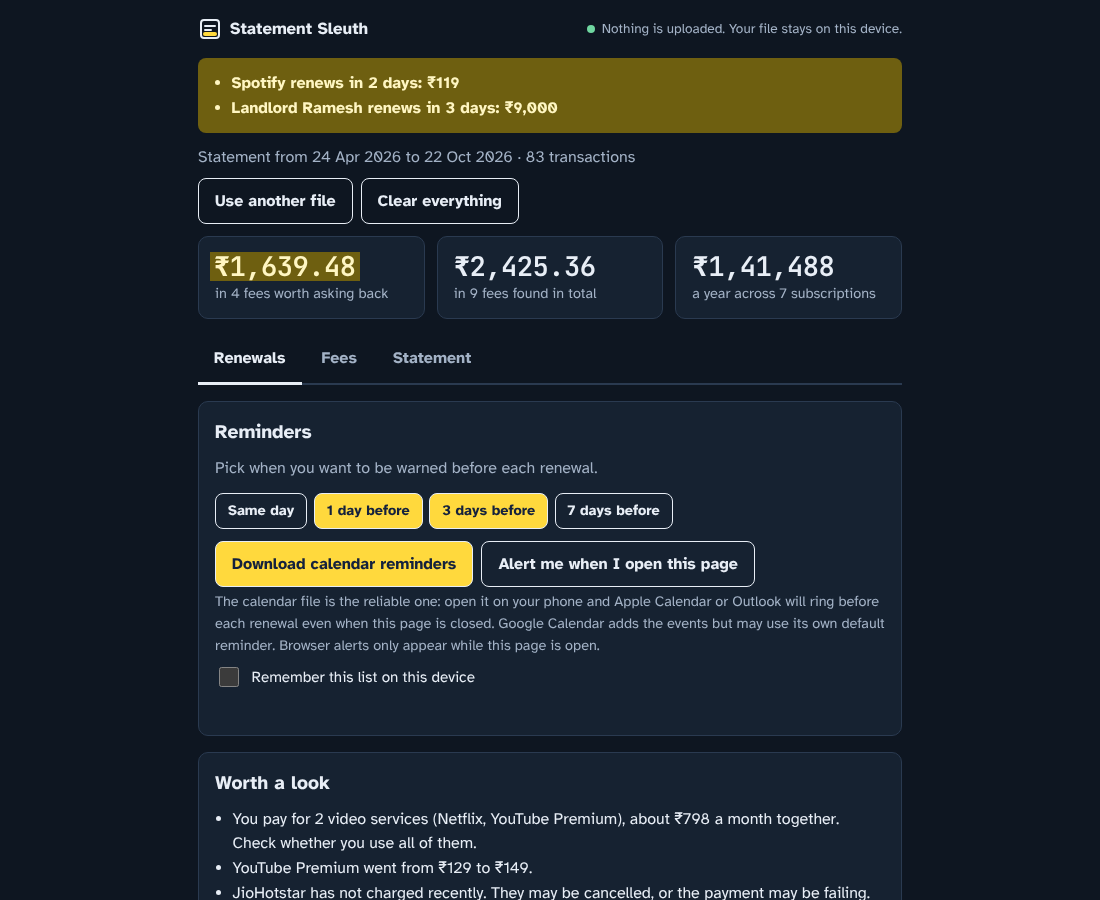
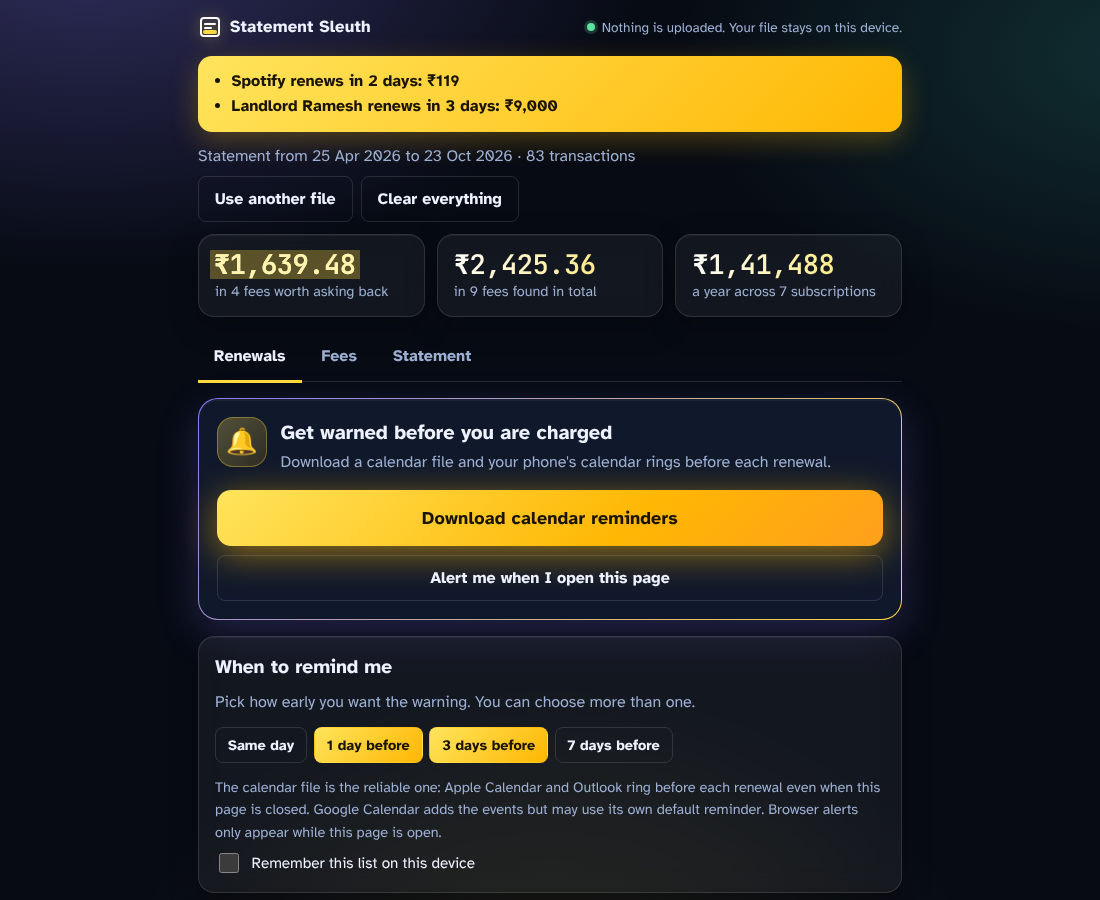
Dark glass theme, safe-area fix for the Android status bar, prominent reminders card, bottom tab bar on phones
Claude-Session: https://claude.ai/code/session_01QRs63Zm8gDiJNueHFq4BCV

Changed region(s): [[0.0, 0.0, 0.8345, 1.0], [0.6182, 0.28, 0.8036, 0.3733]]

diff --git a/web/style.css b/web/style.css
@@ -4,21 +4,19 @@
 @font-face{font-family:"JBMono";src:url(fonts/jetbrains-mono-latin-600-normal.woff2) format("woff2");font-weight:600;font-display:swap}
 
 :root{
-  --bg:#e8edf2; --paper:#fbfcfd; --ink:#14213d; --ink-2:#4a5870; --rule:#cfd8e2; --rule-2:#e3e9ef;
-  --hi:#ffe45c; --hi-line:#ffd93d; --hi-ink:#14213d;
-  --good:#17714a; --good-bg:#dff3e8; --warn:#9a3412; --warn-bg:#fde8d8; --info-bg:#e1ebf8;
-  --accent:#14213d; --accent-ink:#fff; --focus:#2563eb;
+  color-scheme:dark;
+  --bg:#070b14; --card:#10192b; --paper:rgba(255,255,255,.05); --ink:#eef2ff; --ink-2:#9db0d3; --rule:rgba(255,255,255,.12); --rule-2:rgba(255,255,255,.07);
+  --hi:rgba(255,217,61,.30); --hi-line:#ffd93d; --hi-ink:#fff3b0;
+  --good:#5ee0a0; --good-bg:rgba(94,224,160,.13); --warn:#ffb48a; --warn-bg:rgba(255,150,90,.13); --info-bg:rgba(139,123,255,.16);
+  --accent:#ffd93d; --accent-ink:#1a1405; --focus:#9dbcff; --violet:#8b7bff; --teal:#3ddbc0;
+  --inset-top:max(env(safe-area-inset-top,0px),var(--safe-area-inset-top,0px));
+  --inset-bottom:max(env(safe-area-inset-bottom,0px),var(--safe-area-inset-bottom,0px));
   --sans:"Atkinson",system-ui,-apple-system,"Segoe UI",Roboto,sans-serif; --mono:"JBMono",ui-monospace,Menlo,Consolas,monospace;
 }
-@media (prefers-color-scheme:dark){:root:not([data-theme="light"]){
-  --bg:#0e1621; --paper:#162231; --ink:#e8eef6; --ink-2:#a3b2c6; --rule:#2a3a50; --rule-2:#203045;
-  --hi:#6e5f10; --hi-line:#ffd93d; --hi-ink:#fff6c2;
-  --good:#6fd6a0; --good-bg:#16382a; --warn:#ffb98a; --warn-bg:#40240f; --info-bg:#1b2c45;
-  --accent:#ffd93d; --accent-ink:#14213d; --focus:#7fb0ff;
-}}
 *{box-sizing:border-box}
 html{-webkit-text-size-adjust:100%}
-body{margin:0;background:var(--bg);color:var(--ink);font:400 1rem/1.55 var(--sans);padding-bottom:3rem}
+html{background:var(--bg)}
+body{margin:0;min-height:100vh;color:var(--ink);font:400 1rem/1.55 var(--sans);padding-bottom:calc(3rem + var(--inset-bottom));background:radial-gradient(900px 520px at 8% -6%,rgba(139,123,255,.30),transparent 62%),radial-gradient(800px 480px at 104% 6%,rgba(61,219,192,.17),transparent 58%),radial-gradient(700px 520px at 50% 112%,rgba(255,217,61,.10),transparent 62%),var(--bg);background-attachment:fixed}
 .skip{position:absolute;left:-999px}.skip:focus{left:1rem;top:1rem;background:var(--paper);padding:.5rem .75rem;z-index:9}
 :focus-visible{outline:3px solid var(--focus);outline-offset:2px;border-radius:4px}
 h1{font-size:clamp(1.75rem,6vw,2.5rem);line-height:1.12;margin:0 0 .75rem;letter-spacing:-.015em}
@@ -28,7 +26,8 @@ p{margin:0 0 .75rem}
 a{color:inherit}
 .muted{color:var(--ink-2)}
 .top,main,footer,.banner{max-width:46rem;margin-inline:auto;padding-inline:max(1rem,env(safe-area-inset-left))}
-.top{display:flex;flex-wrap:wrap;gap:.25rem 1rem;align-items:center;justify-content:space-between;padding-block:1rem .5rem}
+.top{display:flex;flex-wrap:wrap;gap:.25rem 1rem;align-items:center;justify-content:space-between;padding-block:calc(var(--inset-top) + .9rem) .5rem}
+html.native .top{padding-top:max(calc(var(--inset-top) + .9rem),2.75rem)}
 .brand{display:flex;align-items:center;gap:.5rem;font-weight:700;font-size:1.05rem}
 .mark{width:1.5rem;height:1.5rem}
 .privacy{font-size:.85rem;color:var(--ink-2);margin:0;display:flex;align-items:center;gap:.4rem}
@@ -66,7 +65,7 @@ button{font:inherit;cursor:pointer}
 .opts label{display:grid;gap:.25rem;font-size:.95rem}
 .opts .check{display:flex;gap:.6rem;align-items:flex-start}
 select,input[type=text],input[type=date],input[type=number],textarea{font:inherit;color:var(--ink);background:var(--paper);border:1.5px solid var(--rule);border-radius:8px;padding:.5rem .6rem;min-height:2.5rem;width:100%}
-input[type=checkbox]{width:1.25rem;height:1.25rem;margin-top:.15rem;accent-color:var(--ink)}
+input[type=checkbox]{width:1.25rem;height:1.25rem;margin-top:.15rem;accent-color:var(--accent)}
 
 /* banner */
 .banner{margin-top:.5rem;padding-block:.8rem;background:var(--hi);color:var(--hi-ink);border-radius:8px;font-weight:700;max-width:calc(46rem - 2rem)}
@@ -109,7 +108,7 @@ input[type=checkbox]{width:1.25rem;height:1.25rem;margin-top:.15rem;accent-color
 .table-wrap{overflow-x:auto;background:var(--paper);border:1px solid var(--rule);border-radius:10px}
 table{border-collapse:collapse;width:100%;font-size:.9rem;min-width:30rem}
 th,td{padding:.5rem .7rem;text-align:left;border-bottom:1px solid var(--rule-2);vertical-align:top}
-th{font-size:.8rem;color:var(--ink-2);font-weight:700;background:var(--paper);position:sticky;top:0}
+th{font-size:.8rem;color:var(--ink-2);font-weight:700;background:#0f1626;position:sticky;top:0}
 td.num{text-align:right;font-family:var(--mono);font-variant-numeric:tabular-nums;white-space:nowrap}
 td.date{font-family:var(--mono);white-space:nowrap}
 tr.is-fee td.d{background:linear-gradient(transparent 14%,var(--hi) 14%,var(--hi) 90%,transparent 90%) no-repeat;background-size:0 100%;color:var(--hi-ink)}
@@ -125,3 +124,75 @@ footer{padding-block:1.5rem;color:var(--ink-2);font-size:.85rem}
 .privacy-page{max-width:40rem;margin-inline:auto;padding:1.5rem max(1rem,env(safe-area-inset-left)) 3rem}
 .privacy-page h2{margin-top:1.5rem}
 .privacy-page li{margin-bottom:.4rem}
+
+
+/* ===== dark, glassy theme ===== */
+h1{background:linear-gradient(110deg,#ffffff 25%,#ffe45c 95%);-webkit-background-clip:text;background-clip:text;color:transparent}
+.brand{letter-spacing:.01em}
+.mark{color:#fff;filter:drop-shadow(0 0 8px rgba(255,217,61,.45))}
+.dot{box-shadow:0 0 0 3px rgba(94,224,160,.2)}
+.ledger-demo,.card,.fig,.panel-box,.table-wrap,.drop,.opts{background:var(--paper);border-color:var(--rule);-webkit-backdrop-filter:blur(14px);backdrop-filter:blur(14px);box-shadow:0 10px 30px rgba(0,0,0,.28),inset 0 1px 0 rgba(255,255,255,.06)}
+.card,.panel-box,.fig{border-radius:16px}
+.card.quiet{background:transparent;box-shadow:none}
+.drop{border:2px dashed rgba(157,176,211,.5);border-radius:16px}
+.drop:hover,.drop.over{border-color:var(--accent);background:var(--info-bg)}
+.btn,.small[aria-pressed="true"]{background:linear-gradient(135deg,#ffe45c,#ffb703);color:var(--accent-ink);border-color:transparent}
+.ghost{border-color:var(--rule);color:var(--ink)}
+.ghost:hover{background:var(--info-bg)}
+.small.alt{border-color:var(--rule);color:var(--ink)}
+.small.alt[aria-pressed="true"]{background:linear-gradient(135deg,#ffe45c,#ffb703);color:var(--accent-ink);border-color:transparent}
+.fig .n{background:linear-gradient(110deg,#fff,#ffe45c);-webkit-background-clip:text;background-clip:text;color:transparent}
+.fig .n mark{-webkit-text-fill-color:currentColor}
+.banner{background:linear-gradient(135deg,#ffe45c,#ffb703);color:#1a1405;border-radius:14px;box-shadow:0 8px 28px rgba(255,183,3,.28)}
+.due.soon{background:linear-gradient(135deg,#ffe45c,#ffb703);color:#1a1405;padding:.05em .45em;border-radius:6px}
+.tag{border-width:1px}
+.notice{border:1px solid var(--rule)}
+
+/* the reminders card: the one thing that should catch the eye */
+.remind-hero{display:grid;gap:.9rem;margin-bottom:1rem;padding:1.1rem;border-radius:20px;border:1.5px solid transparent;
+  background:linear-gradient(var(--card),var(--card)) padding-box,linear-gradient(135deg,var(--violet),var(--accent)) border-box;
+  box-shadow:0 14px 40px rgba(139,123,255,.22),0 2px 0 rgba(255,255,255,.04) inset}
+.remind-hero.on{background:linear-gradient(var(--card),var(--card)) padding-box,linear-gradient(135deg,var(--teal),var(--good)) border-box;box-shadow:0 14px 40px rgba(61,219,192,.18)}
+.rh-top{display:flex;gap:.9rem;align-items:flex-start}
+.rh-icon{flex:none;width:3.1rem;height:3.1rem;border-radius:16px;display:grid;place-items:center;font-size:1.6rem;background:linear-gradient(135deg,rgba(255,228,92,.28),rgba(255,183,3,.12));box-shadow:inset 0 0 0 1px rgba(255,217,61,.35)}
+.remind-hero.on .rh-icon{background:rgba(94,224,160,.16);box-shadow:inset 0 0 0 1px rgba(94,224,160,.4);color:var(--good);font-weight:700}
+.rh-body h2{margin:0 0 .15rem;font-size:1.25rem}
+.rh-body p{margin:0}
+.cta{display:flex;align-items:center;justify-content:center;width:100%;min-height:3.5rem;padding:.8rem 1.2rem;border:0;border-radius:14px;font:700 1.12rem var(--sans);letter-spacing:.01em;color:#1a1405;
+  background:linear-gradient(135deg,#ffe45c,#ffb703 62%,#ff9f1c);box-shadow:0 8px 28px rgba(255,183,3,.38),inset 0 1px 0 rgba(255,255,255,.55);cursor:pointer}
+.cta:active{transform:scale(.98)}
+.cta.calm{background:rgba(255,255,255,.07);color:var(--ink);box-shadow:inset 0 0 0 1px var(--rule)}
+.remind-hero .actions{display:grid;gap:.6rem;margin-top:0}
+.remind-hero .status{margin:0;min-height:0;color:var(--ink-2)}
+.remind-hero .status:empty{display:none}
+@media (prefers-reduced-motion:no-preference){
+  .remind-hero:not(.on) .cta{animation:glow 2.4s ease-in-out infinite}
+  @keyframes glow{0%,100%{box-shadow:0 8px 28px rgba(255,183,3,.32),0 0 0 0 rgba(255,217,61,.5)}50%{box-shadow:0 8px 36px rgba(255,183,3,.55),0 0 0 11px rgba(255,217,61,0)}}
+  .rh-icon{animation:ring 3.2s ease-in-out infinite;transform-origin:50% 12%}
+  .remind-hero.on .rh-icon{animation:none}
+  @keyframes ring{0%,86%,100%{transform:rotate(0)}89%{transform:rotate(14deg)}92%{transform:rotate(-12deg)}95%{transform:rotate(8deg)}98%{transform:rotate(-4deg)}}
+}
+
+/* tabs: a floating glass bar at the bottom on phones */
+.tabs{border-bottom:1px solid var(--rule)}
+.tabs button{color:var(--ink-2)}
+.tabs button[aria-selected="true"]{color:var(--ink);border-bottom-color:var(--accent)}
+@media (max-width:40rem){
+  body{padding-bottom:calc(6rem + var(--inset-bottom))}
+  .tabs{position:fixed;z-index:20;left:max(.75rem,env(safe-area-inset-left));right:max(.75rem,env(safe-area-inset-right));bottom:calc(var(--inset-bottom) + .6rem);margin:0;padding:.3rem;gap:.2rem;border:1px solid var(--rule);border-radius:999px;
+    background:rgba(16,25,43,.82);-webkit-backdrop-filter:blur(18px);backdrop-filter:blur(18px);box-shadow:0 12px 36px rgba(0,0,0,.5)}
+  .tabs button{flex:1;border:0;border-radius:999px;margin:0;padding:.55rem .4rem;text-align:center}
+  .tabs button[aria-selected="true"]{background:linear-gradient(135deg,#ffe45c,#ffb703);color:#1a1405}
+}
+
+/* phone layout tidy-up */
+.banner{width:calc(100% - 2rem)}
+@media (max-width:40rem){
+  .toolbar{padding-block:.5rem}
+  .toolbar p{font-size:.9rem;flex-basis:100%}
+  .toolbar .ghost{min-height:2.4rem;padding:.35rem .8rem;font-size:.9rem}
+  .figures{grid-template-columns:repeat(3,minmax(0,1fr));gap:.5rem}
+  .fig{padding:.65rem .6rem;border-radius:14px}
+  .fig .n{font-size:1.02rem}
+  .fig .l{font-size:.72rem;line-height:1.25;margin-top:.15rem}
+}

diff --git a/web/app.js b/web/app.js
@@ -59,6 +59,7 @@ function dueWords(d) {
 /* ---------- phone reminders (only inside the Android/iOS app) ---------- */
 // Inside the app, Capacitor puts its plugins on window. On the website this is undefined and nothing below runs.
 const native = () => { try { return !!(window.Capacitor && window.Capacitor.isNativePlatform && window.Capacitor.isNativePlatform()); } catch { return false; } };
+if (native()) document.documentElement.classList.add("native");
 const LN = () => (native() && window.Capacitor.Plugins && window.Capacitor.Plugins.LocalNotifications) || null;
 let phoneTimer = 0;
 async function phonePermission(ask) {
@@ -80,13 +81,14 @@ async function syncPhoneReminders() {
   return list.length;
 }
 function syncPhoneSoon() { clearTimeout(phoneTimer); phoneTimer = setTimeout(() => { syncPhoneReminders().catch(() => {}); }, 400); }
-async function enablePhone(status) {
+async function enablePhone() {
   const p = await phonePermission(true);
-  if (p !== "granted") { status.textContent = "Notifications are off for this app. Turn them on in your phone's Settings > Apps > Statement Sleuth > Notifications, then try again."; return; }
+  if (p !== "granted") { state.msg = "Notifications are off for this app. Turn them on in your phone's Settings > Apps > Statement Sleuth > Notifications, then try again."; renderRenewals(); return; }
   store.set("ss.phone", true);
   if (!state.keep) { state.keep = true; store.set("ss.keep", true); store.set("ss.plan", state.plan); }
   const n = await syncPhoneReminders();
-  status.textContent = n ? `Done. ${n} reminders are set on this phone and will ring even when the app is closed. Open the app now and then to keep them topped up.` : "Reminders are on. Nothing renews in the next 90 days; they will be set up when something does.";
+  state.msg = n ? `${n} reminders are set on this phone and will ring even when the app is closed. Open the app now and then to keep them topped up.` : "Reminders are on. Nothing renews in the next 90 days; they will be set up when something does.";
+  renderRenewals();
 }
 
 /* ---------- alerts ---------- */
@@ -170,30 +172,38 @@ function renderRenewals() {
 
   // reminder settings
   const leadChoices = [[0, "Same day"], [1, "1 day before"], [3, "3 days before"], [7, "7 days before"]];
-  const status = h("p", { class: "status", "aria-live": "polite" });
+  const status = h("p", { class: "status", "aria-live": "polite" }, state.msg || "");
+  const phoneOn = native() && store.get("ss.phone", false);
+  const hero = h("section", { class: "remind-hero" + (phoneOn ? " on" : ""), "aria-label": "Reminders" },
+    h("div", { class: "rh-top" },
+      h("div", { class: "rh-icon", "aria-hidden": "true" }, phoneOn ? "\u2713" : "\uD83D\uDD14"),
+      h("div", { class: "rh-body" },
+        h("h2", {}, phoneOn ? "Reminders are on" : "Get warned before you are charged"),
+        h("p", { class: "muted" }, native()
+          ? (phoneOn ? "Your phone will notify you at 9 am before each renewal, even when the app is closed." : "One tap. Your phone notifies you at 9 am before each renewal. No internet needed.")
+          : "Download a calendar file and your phone's calendar rings before each renewal."))),
+    native()
+      ? h("button", { class: phoneOn ? "cta calm" : "cta", type: "button", onclick: () => enablePhone() }, phoneOn ? "Refresh reminders" : "Turn on phone reminders")
+      : h("div", { class: "actions" },
+        h("button", { class: "cta", type: "button", onclick: () => downloadICS(status) }, "Download calendar reminders"),
+        h("button", { class: "ghost", type: "button", onclick: () => enableAlerts(status) }, "Alert me when I open this page")),
+    status);
   const settings = h("div", { class: "panel-box" },
-    h("h2", {}, "Reminders"),
-    h("p", { class: "muted" }, "Pick when you want to be warned before each renewal."),
+    h("h2", {}, "When to remind me"),
+    h("p", { class: "muted" }, "Pick how early you want the warning. You can choose more than one."),
     h("div", { class: "chips", role: "group", "aria-label": "Remind me" }, leadChoices.map(([d, label]) =>
       h("button", { class: "small alt", type: "button", "aria-pressed": String(state.lead.includes(d)), onclick: () => {
         state.lead = state.lead.includes(d) ? state.lead.filter((x) => x !== d) : [...state.lead, d].sort((a, b) => b - a);
         store.set("ss.lead", state.lead); renderRenewals(); renderBanner(); syncPhoneSoon();
       } }, label))),
     native()
-      ? h("div", { class: "actions" }, h("button", { class: "btn", type: "button", onclick: () => enablePhone(status) }, store.get("ss.phone", false) ? "Refresh phone reminders" : "Turn on phone reminders"))
-      : h("div", { class: "actions" },
-        h("button", { class: "btn", type: "button", onclick: () => downloadICS(status) }, "Download calendar reminders"),
-        h("button", { class: "ghost", type: "button", onclick: () => enableAlerts(status) }, "Alert me when I open this page")),
-    native()
-      ? h("p", { class: "meta" }, "Reminders are set on this phone at 9 am on the days you picked. They ring even when the app is closed and need no internet. Open the app every month or so: it plans 90 days ahead.")
-      : h("p", { class: "meta" }, "The calendar file is the reliable one: open it on your phone and Apple Calendar or Outlook will ring before each renewal even when this page is closed. Google Calendar adds the events but may use its own default reminder. Browser alerts only appear while this page is open."),
+      ? h("p", { class: "meta" }, "Reminders are planned 90 days ahead. Open the app every month or so to top them up.")
+      : h("p", { class: "meta" }, "The calendar file is the reliable one: Apple Calendar and Outlook ring before each renewal even when this page is closed. Google Calendar adds the events but may use its own default reminder. Browser alerts only appear while this page is open."),
     h("label", { class: "remind-line" }, h("input", { type: "checkbox", checked: state.keep, onchange: (e) => {
       state.keep = e.target.checked; store.set("ss.keep", state.keep);
       if (state.keep) store.set("ss.plan", state.plan); else store.del("ss.plan");
-      status.textContent = state.keep ? "Saved on this device only. Your statement itself is never saved." : "Removed the saved list from this device.";
-    } }), "Remember this list on this device"),
-    status);
-  p.append(settings);
+    } }), "Remember this list on this device"));
+  p.append(hero, settings);
 
   const notes = r ? subscriptionInsights(r.subs, money) : [];
   if (notes.length) p.append(h("div", { class: "panel-box" }, h("h2", {}, "Worth a look"), h("ul", { class: "note-list" }, notes.map((n) => h("li", {}, n)))));

diff --git a/web/index.html b/web/index.html
@@ -4,8 +4,8 @@
 <meta charset="utf-8">
 <meta name="viewport" content="width=device-width, initial-scale=1, viewport-fit=cover">
 <meta http-equiv="Content-Security-Policy" content="default-src 'none'; script-src 'self'; style-src 'self'; font-src 'self'; img-src 'self' data:; connect-src 'none'; form-action 'none'; base-uri 'none'">
-<meta name="color-scheme" content="light dark">
-<meta name="theme-color" content="#14213d">
+<meta name="color-scheme" content="dark">
+<meta name="theme-color" content="#070b14">
 <title>Statement Sleuth</title>
 <meta name="description" content="Find bank fees you can ask back and subscriptions you forgot, and get reminders before they renew. Works offline; your statement never leaves your device.">
 <link rel="icon" href="icon.svg" type="image/svg+xml">
